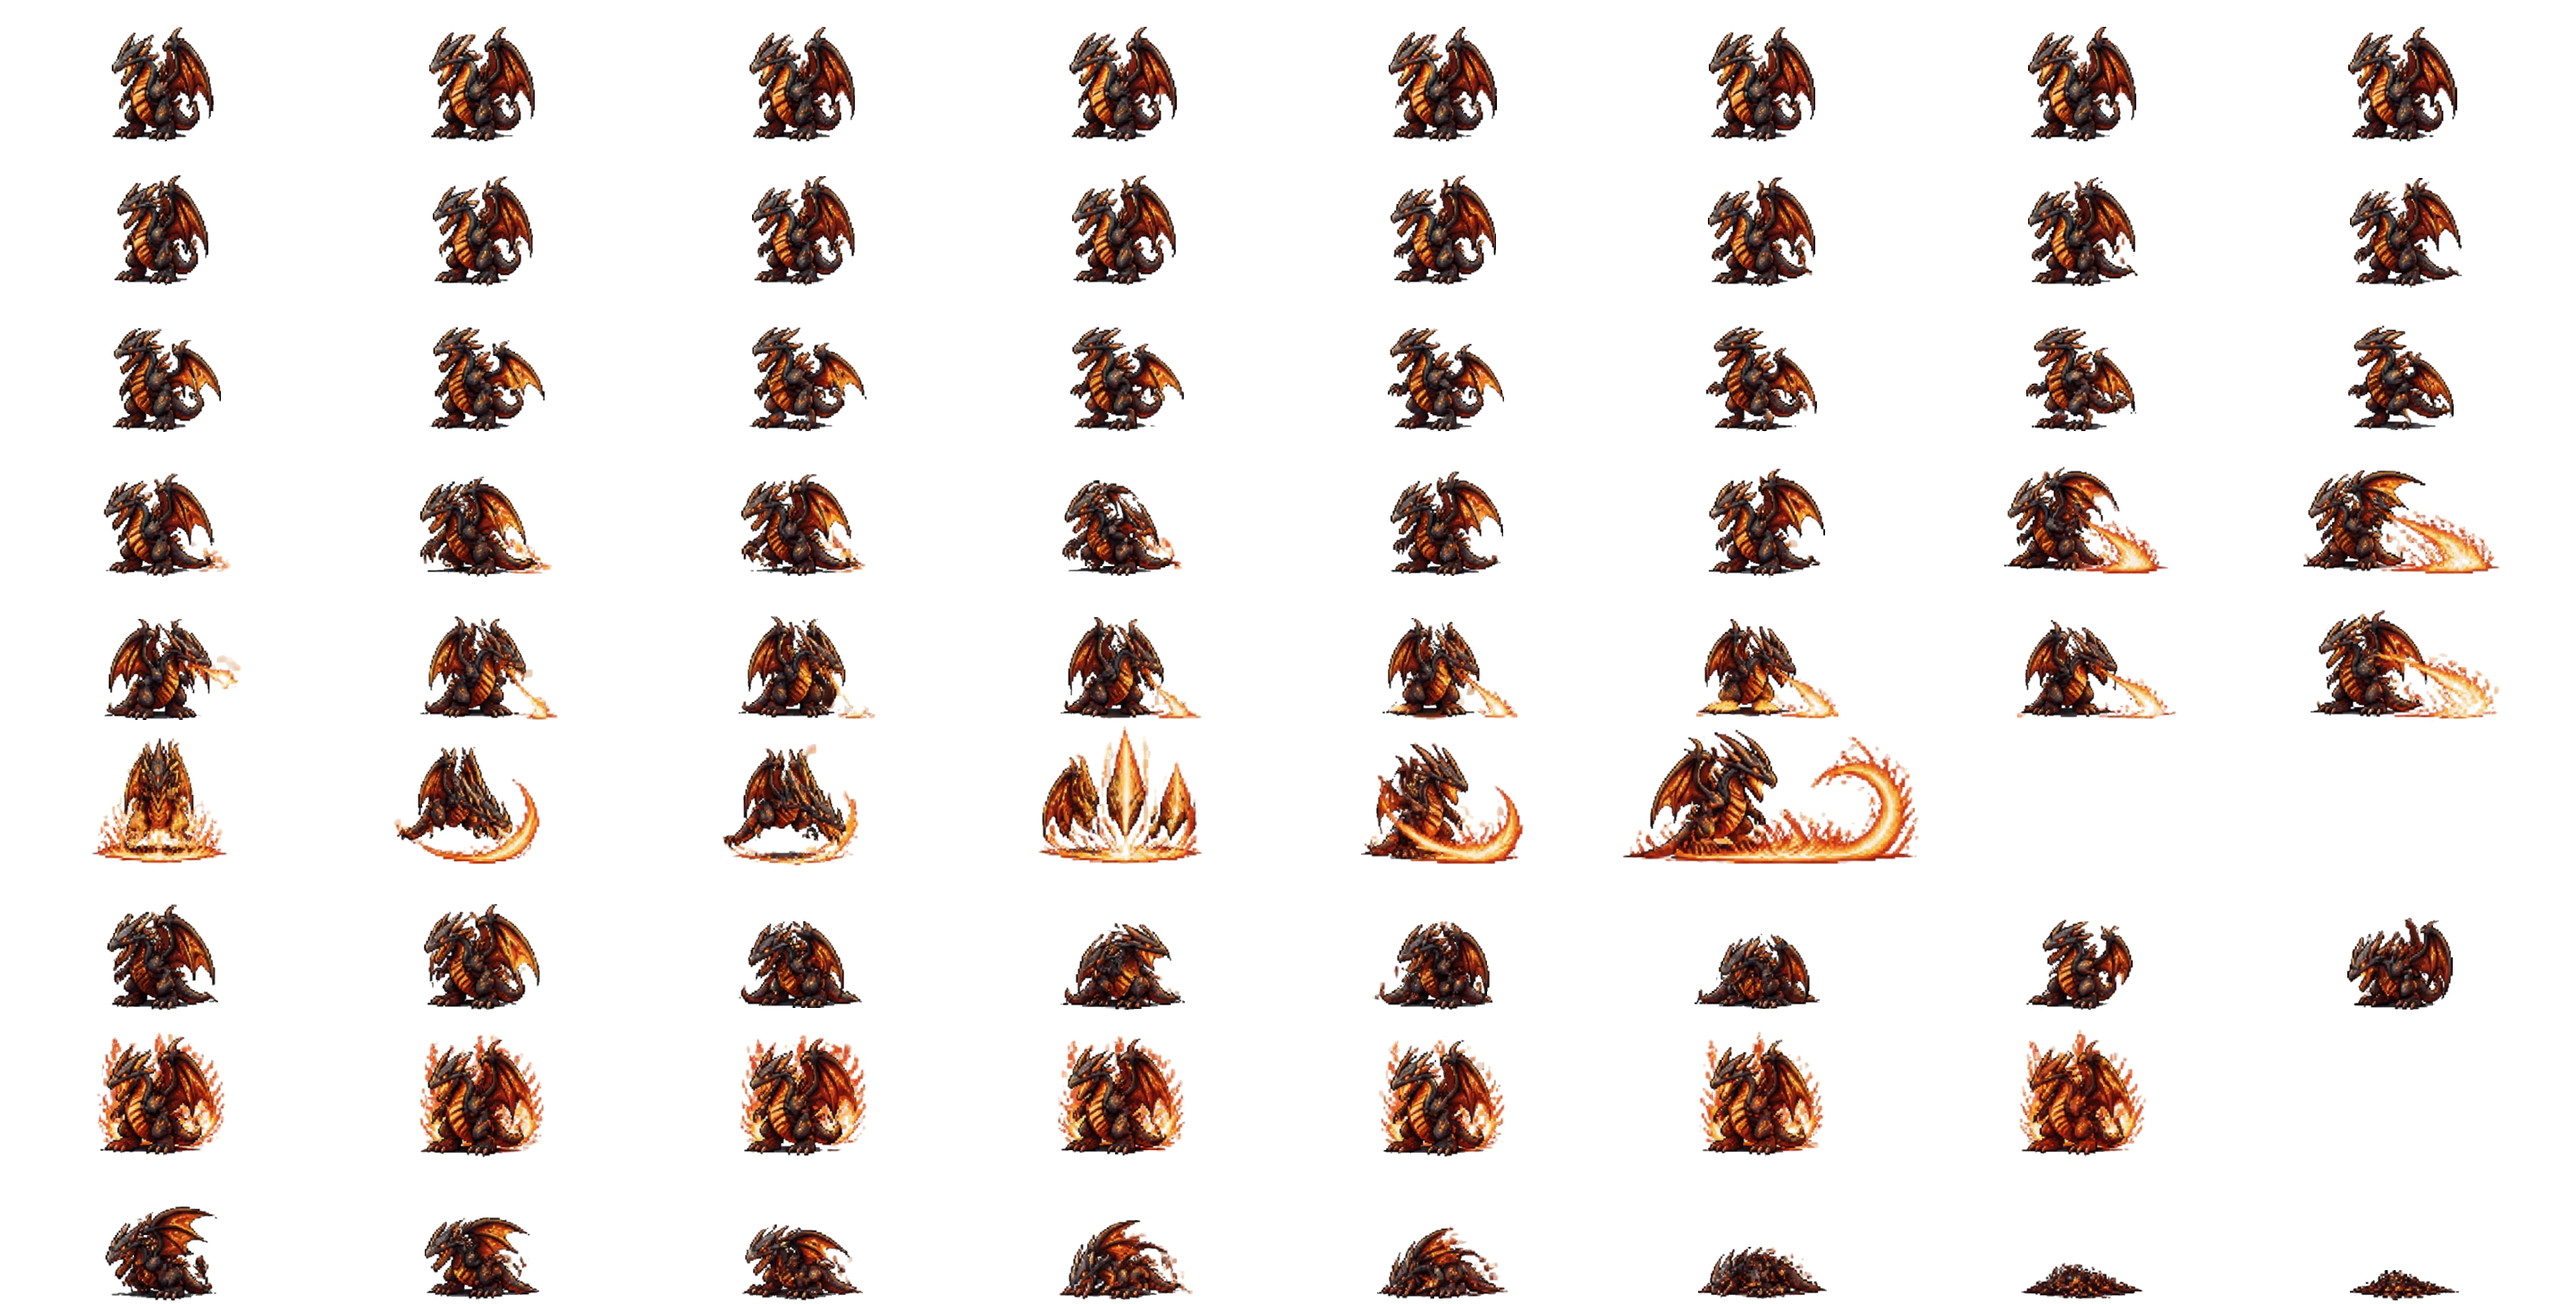
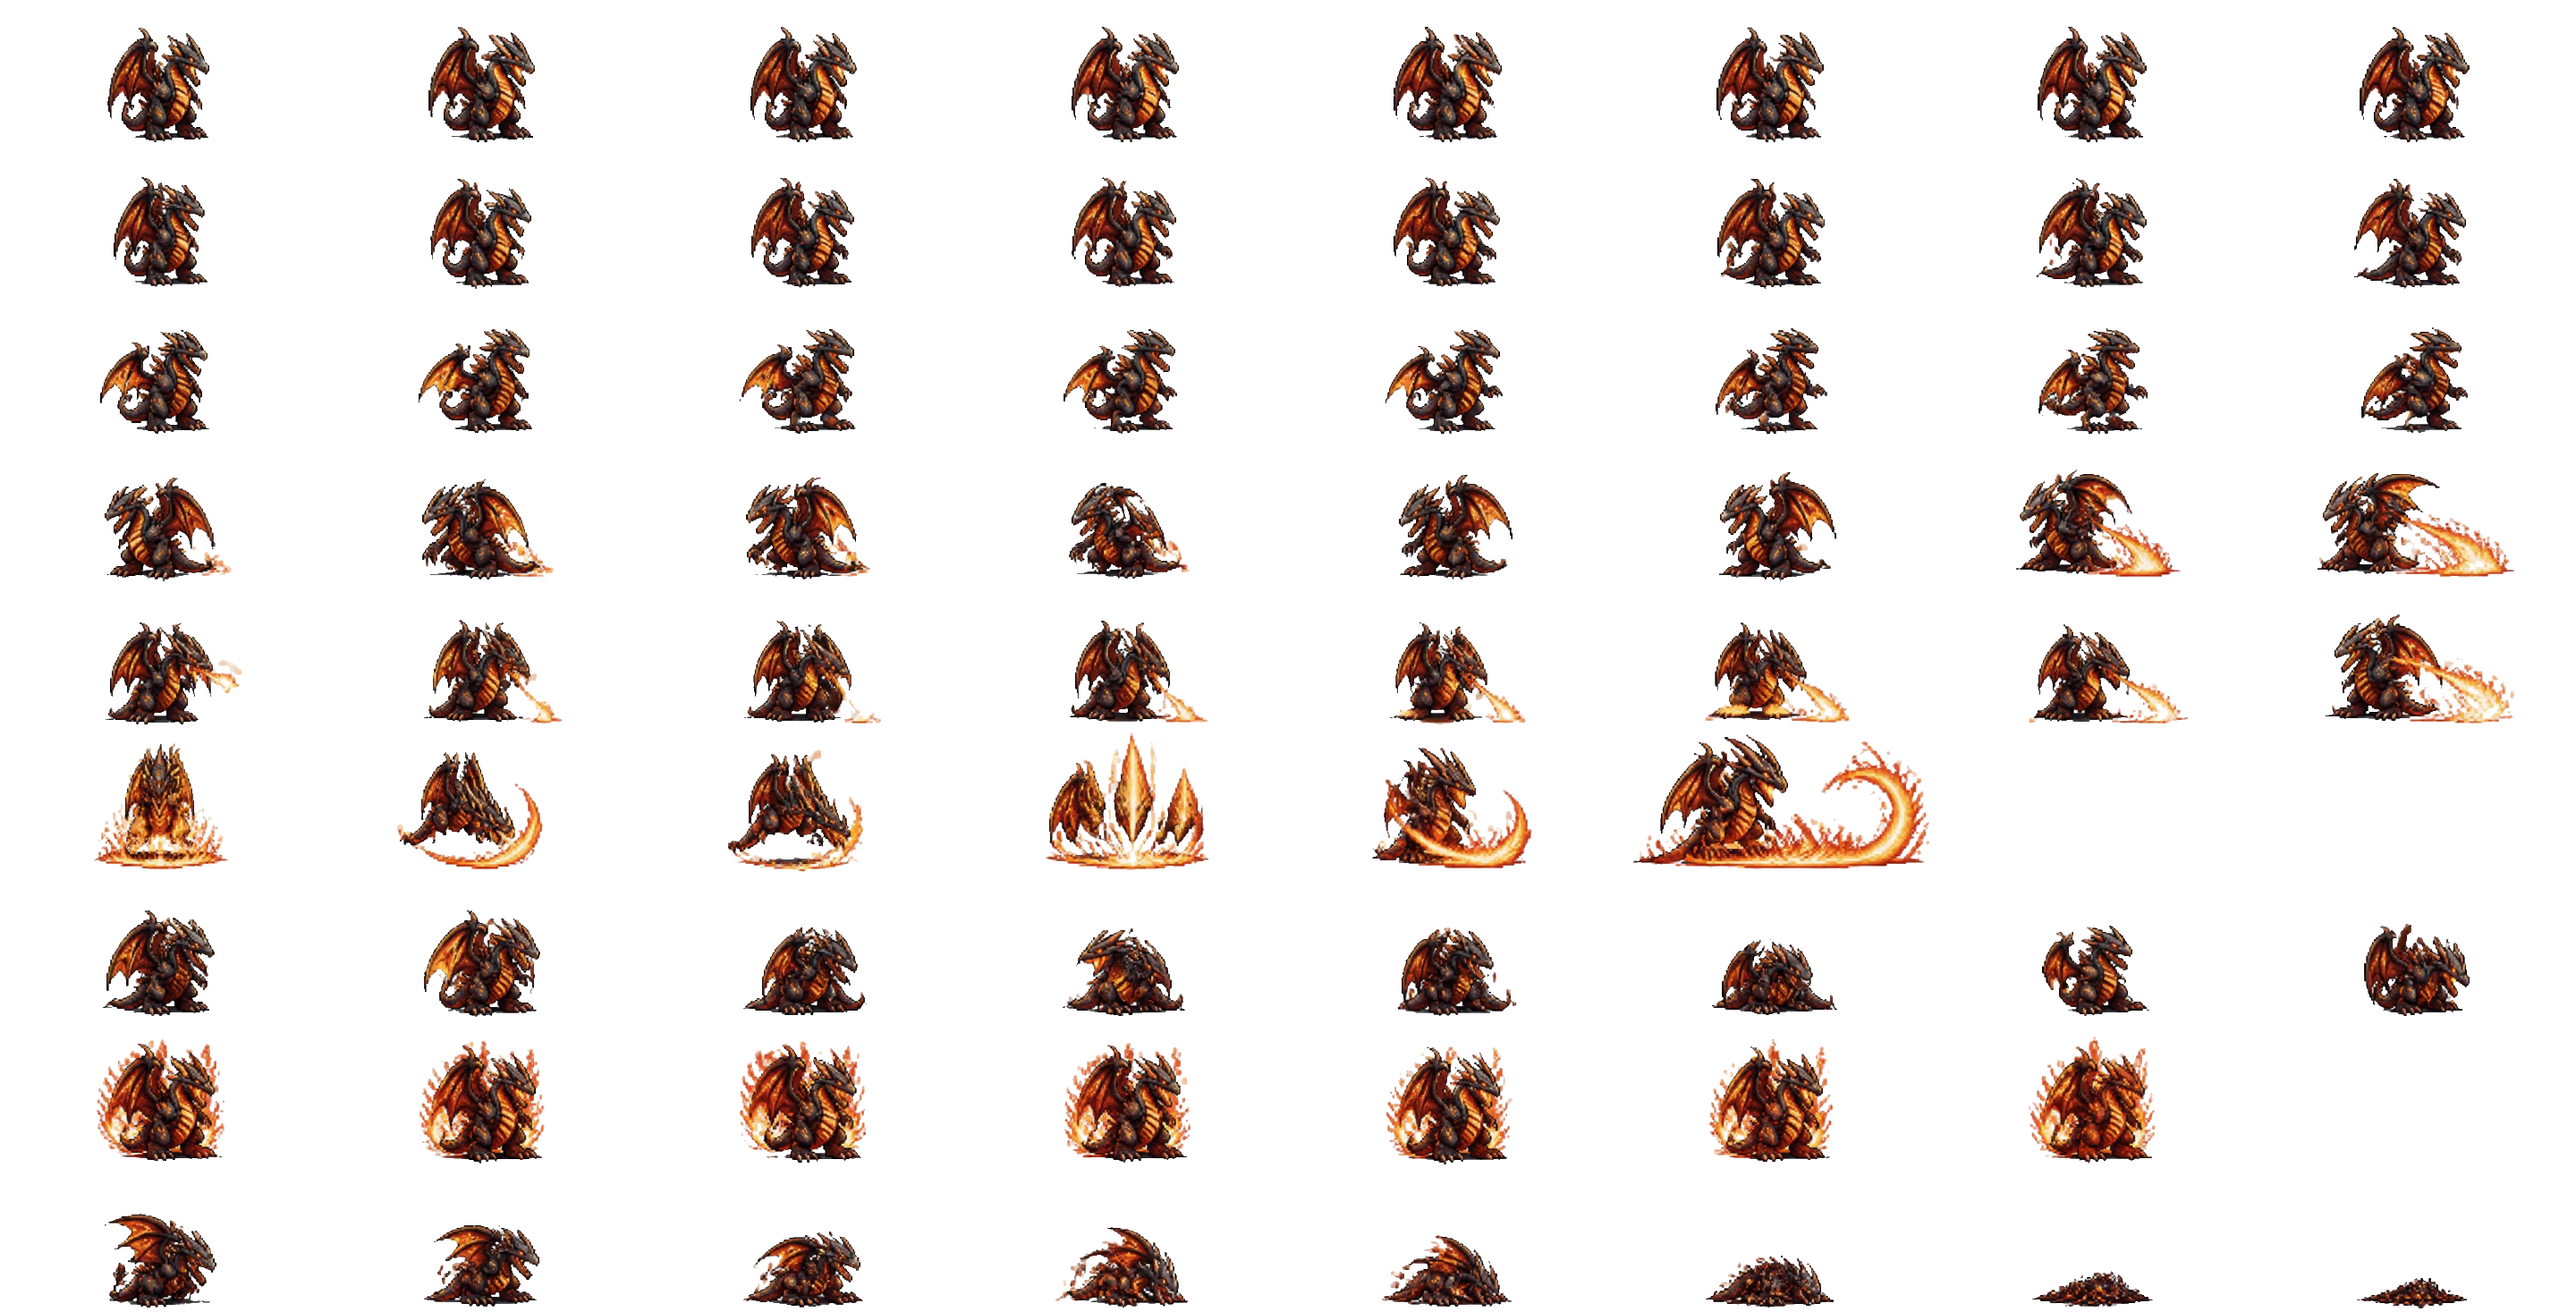
Varkharon v2 polish (owner: white rim + it walked backwards): the sheet's stand / walk / claw / hurt / enrage / death rows face LEFT -> mirrored (flip), the fire rows (breath / spit / special) already face right -> kept; defringe.out = one more peel on the scaled frames (downscaling blended the last

diff --git a/tools/build-monsters.js b/tools/build-monsters.js
@@ -168,8 +168,10 @@ const SHEETS = {
   // 9 rows: idle · walk · claw · breath · fire spit · specials · hurt · enrage · death. Built at height 128 and drawn at
   // look.scale 1 -> never upscaled in game.
   varkharon: {
-    file: 'A/A2/SC/dragon/SP/image-cec8b512-31ea-418a-8409-49e8c2896ac7-0.png', height: 128, pocket: 20, defringe: { passes: 3, minLum: 130, neutral: 18, pure: 6, minSize: 3 },
-    rows: [['idle', 8], ['walk', 8], ['claw', 8], ['breath', 8, { blobs: { min: 3000, reach: 120, edgeDrop: true } }], ['spit', 8], ['special', 6], ['hurt', 8], ['enrage', 7], ['death', 8]],
+    file: 'A/A2/SC/dragon/SP/image-cec8b512-31ea-418a-8409-49e8c2896ac7-0.png', height: 128, flip: true, pocket: 20, // drawn facing LEFT: mirrored so the game's 'faces right' rule holds (it moonwalked)
+    defringe: { passes: 3, minLum: 130, neutral: 26, pure: 6, minSize: 3, out: { alpha: 150, minLum: 150, neutral: 40 } },
+    // the fire rows are drawn facing RIGHT: not mirrored
+    rows: [['idle', 8], ['walk', 8], ['claw', 8], ['breath', 8, { flip: false, blobs: { min: 3000, reach: 120, edgeDrop: true } }], ['spit', 8, { flip: false }], ['special', 6, { flip: false }], ['hurt', 8], ['enrage', 7], ['death', 8]],
   },
   // B2 BOSS: the AMETHYST COLOSSUS (a giant crystal golem, faces right)
   amethyst_colossus: {
@@ -558,6 +560,20 @@ function buildMonster(id, def, probe) {
   for (const f of frames) {
     const sub = crop(f.im, f.bb.minx, f.bb.miny, f.bb.maxx + 1, f.bb.maxy + 1);
     const sc = scaleImage(sub, s);
+    // defringe.out: one more peel on the SCALED frame — downscaling blends the last light outline pixels into
+    // half-transparent pale greys (a white rim on dark ground)
+    if (def.defringe && def.defringe.out) {
+      const d = sc.data, w = sc.width, h = sc.height, o = def.defringe.out, drop = [];
+      for (let y = 0; y < h; y++) for (let x = 0; x < w; x++) {
+        const i = (y * w + x) * 4;
+        if (!d[i + 3]) continue;
+        const edge = x === 0 || y === 0 || x === w - 1 || y === h - 1 || !d[i - 1] || !d[i + 7] || !d[i - w * 4 + 3] || !d[i + w * 4 + 3];
+        if (!edge) continue;
+        const l = (d[i] + d[i + 1] + d[i + 2]) / 3, n = Math.max(d[i], d[i + 1], d[i + 2]) - Math.min(d[i], d[i + 1], d[i + 2]);
+        if (d[i + 3] < (o.alpha ?? 150) || (l >= (o.minLum ?? 150) && n <= (o.neutral ?? 40))) drop.push(i);
+      }
+      for (const i of drop) d[i + 3] = 0;
+    }
     const ri = rows.findIndex((r) => r.name === f.row);
     const dx = f.i * fw + Math.round(ax - (f.cx - f.bb.minx) * s);
     const dy = ri * fh + Math.round(ay - (f.feet - f.bb.miny) * s);
